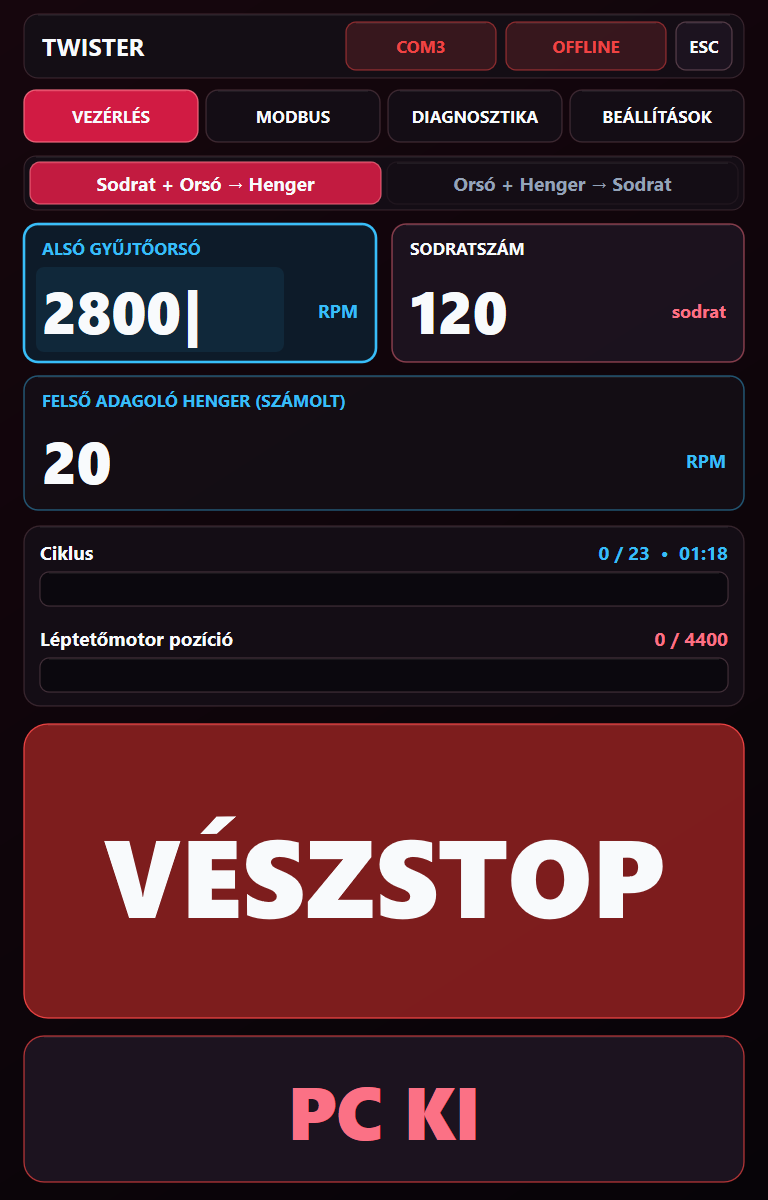
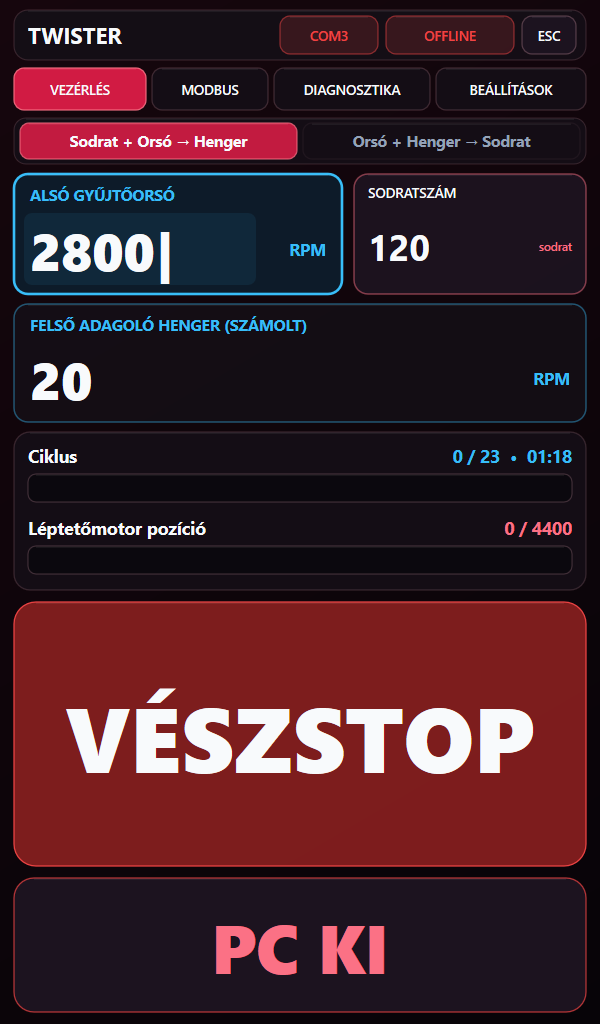
docs: update README and screenshots

Changed region(s): [[0.0, 0.0, 0.99, 1.0], [0.09, 0.6562, 0.9, 0.7812], [0.96, 0.0625, 0.99, 0.0938]]

diff --git a/README.md b/README.md
@@ -1,6 +1,6 @@
 # Twister Control — Részletes Kezelői Kézikönyv
 
-Ez a program a fonalsodró gép teljes vezérlőszoftvere érintőképernyőre (`768×1200` álló kijelzőre) és normál egér + billentyűzet használatra tervezve.  
+Ez a program a fonalsodró gép teljes vezérlőszoftvere érintőképernyőre (`1024×600`-as álló (`600×1024`) kijelzőre) és normál egér + billentyűzet használatra tervezve.  
 A PC egyetlen RS-485 soros kábelen keresztül (`COM3`, `19200 bps`, `8N1`) egyszerre 4 eszközt irányít:
 1. **`0x01` — Kinco FM léptetőmotor-hajtás** (a fonálvezető szán fel-le mozgatása)
 2. **`0x02` — I/O relémodul** (fizikai Start/Stop gombok olvasása + jelzőlámpák és főkontaktor kapcsolása)
